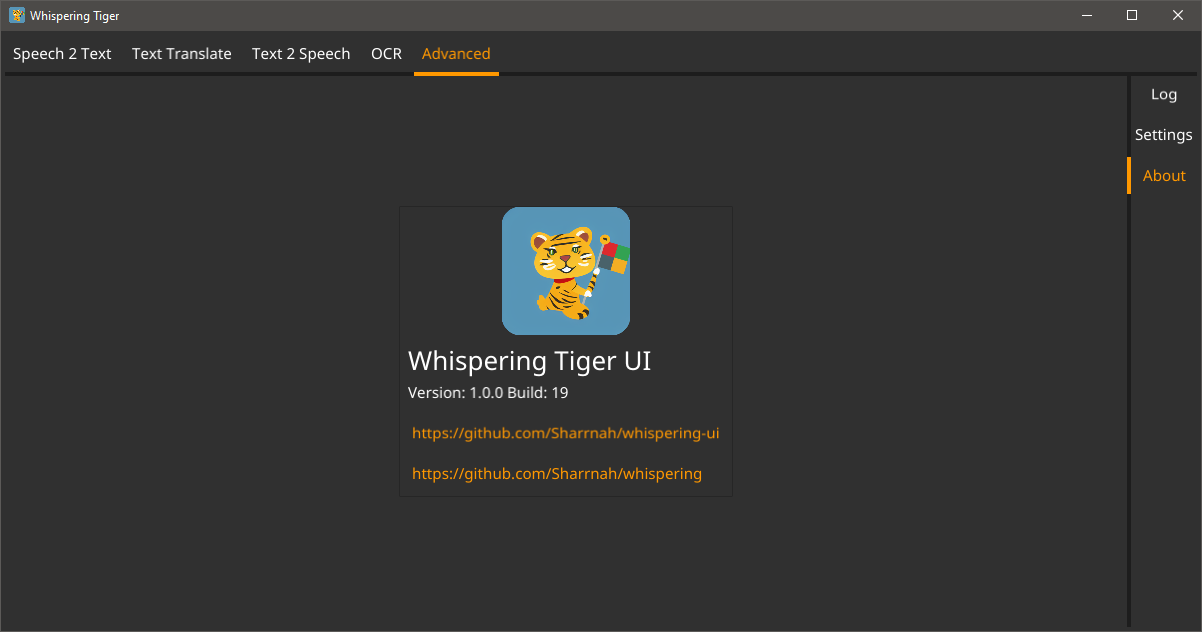
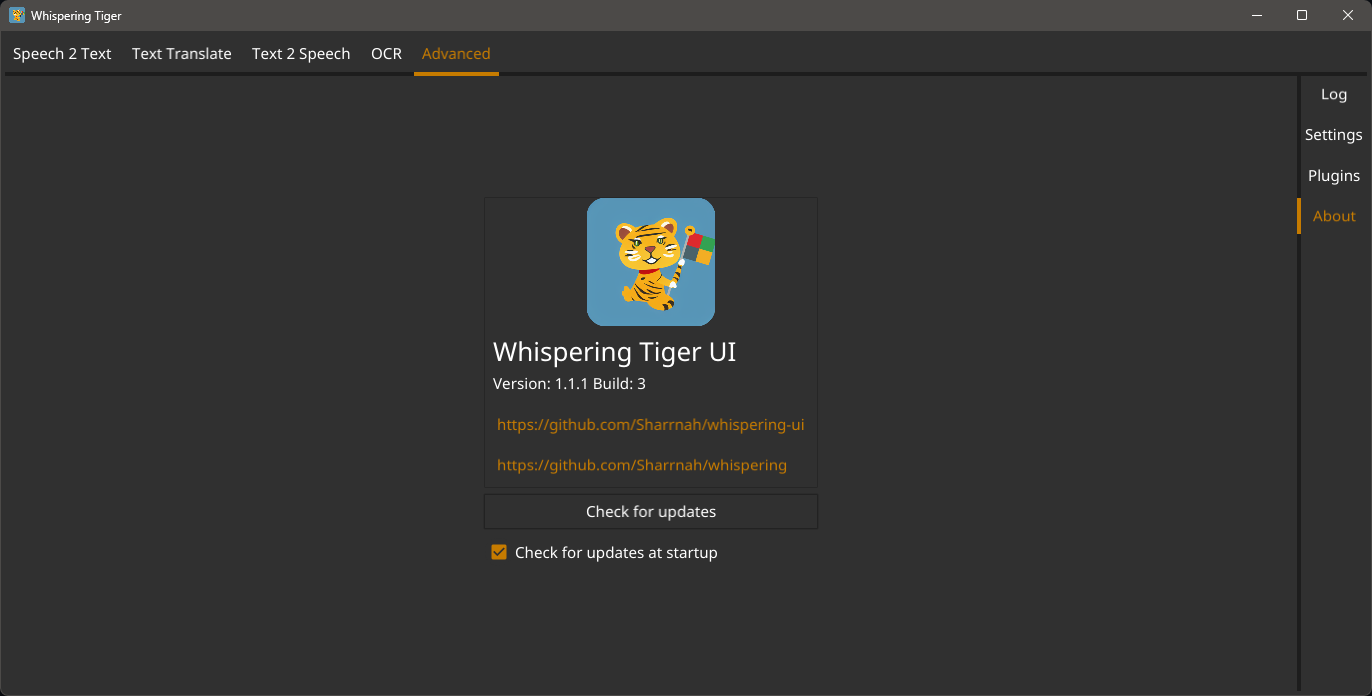
[TASK] Update screenshots

diff --git a/README.md b/README.md
@@ -17,7 +17,7 @@ Whispering Tiger UI is intended to make it easier to control and configure the *
    - Displaying the results in a web browser or VRChat, using Websockets or OSC
 - **Save** and **load** configurations
 - **Preview** if your selected Audio devices are working
-- **Plugin** support for **additional features** (e.g. **Large Language Models** or **Currently Playing Song** Plugins)
+- **Plugin** support for **additional features** (e.g. **Large Language Models**, **Emotion Prediction** or **Currently Playing Song** Plugins)
   - [Find a list of Plugins here.](https://github.com/Sharrnah/whispering/blob/main/documentation/plugins.md) 
 - **Auto-Update** to the latest version of **Whispering Tiger**.
 
@@ -38,4 +38,6 @@ Whispering Tiger UI is intended to make it easier to control and configure the *
 <img src=doc/images/text-translate.png width=845 alt="Text Translate Tab">
 <img src=doc/images/text2speech.png width=845 alt="Text 2 Speech Tab">
 <img src=doc/images/ocr.png width=845 alt="Optical Character Recognition Tab">
+<img src=doc/images/plugins.png width=845 alt="Plugins Tab">
+<img src=doc/images/advanced-settings.png width=845 alt="Advanced Settings Tab">
 <img src=doc/images/about.png width=845 alt="About Info Tab">
